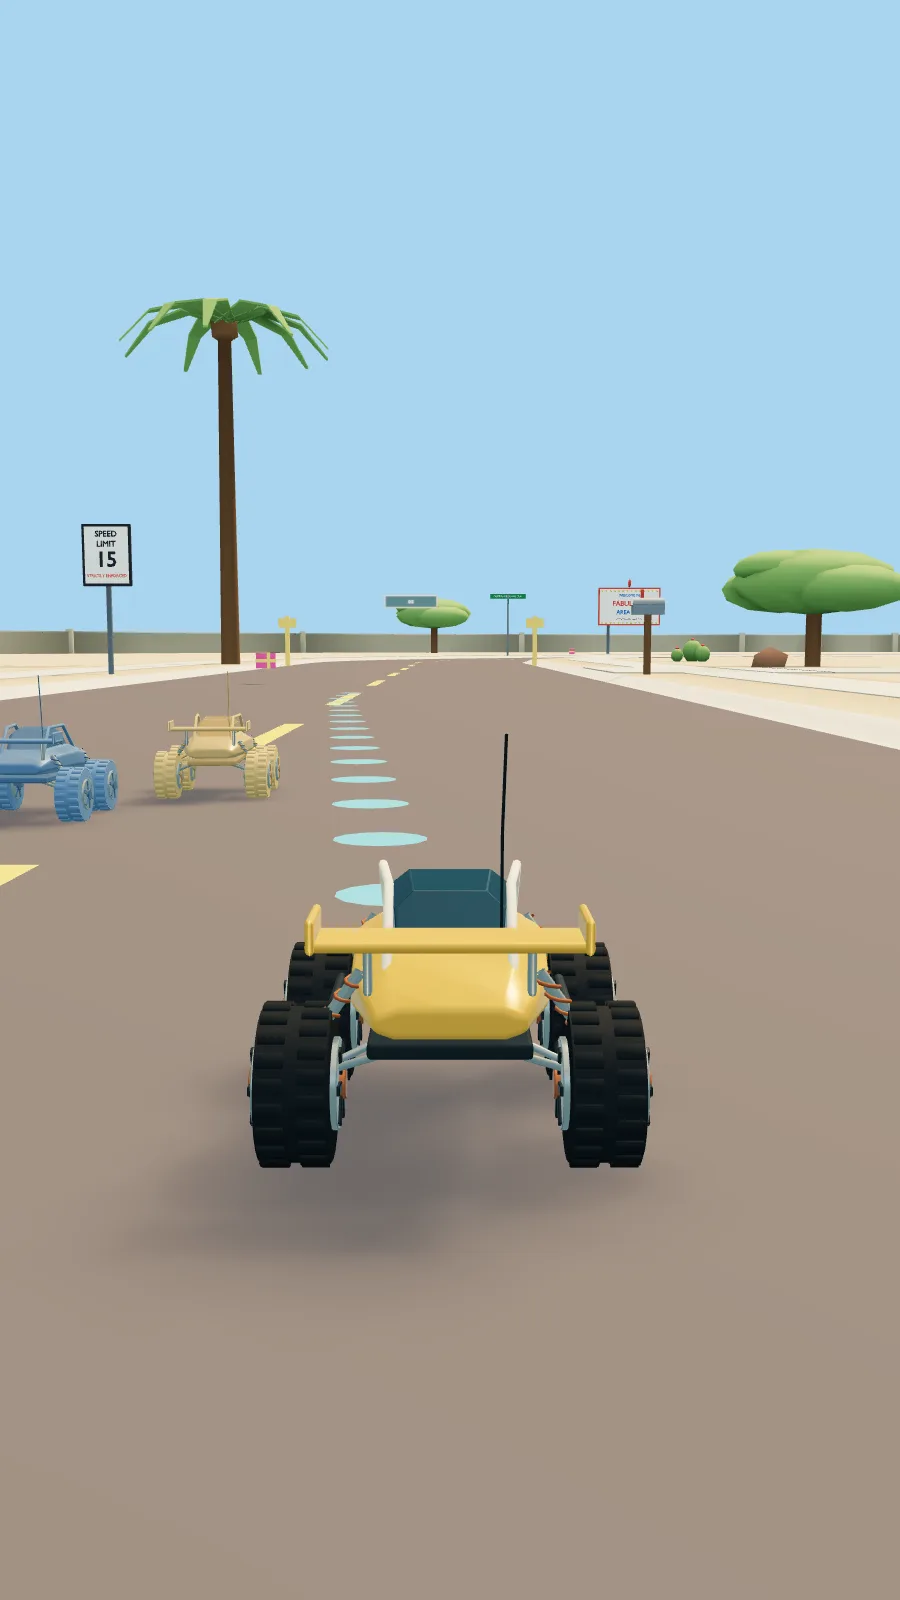
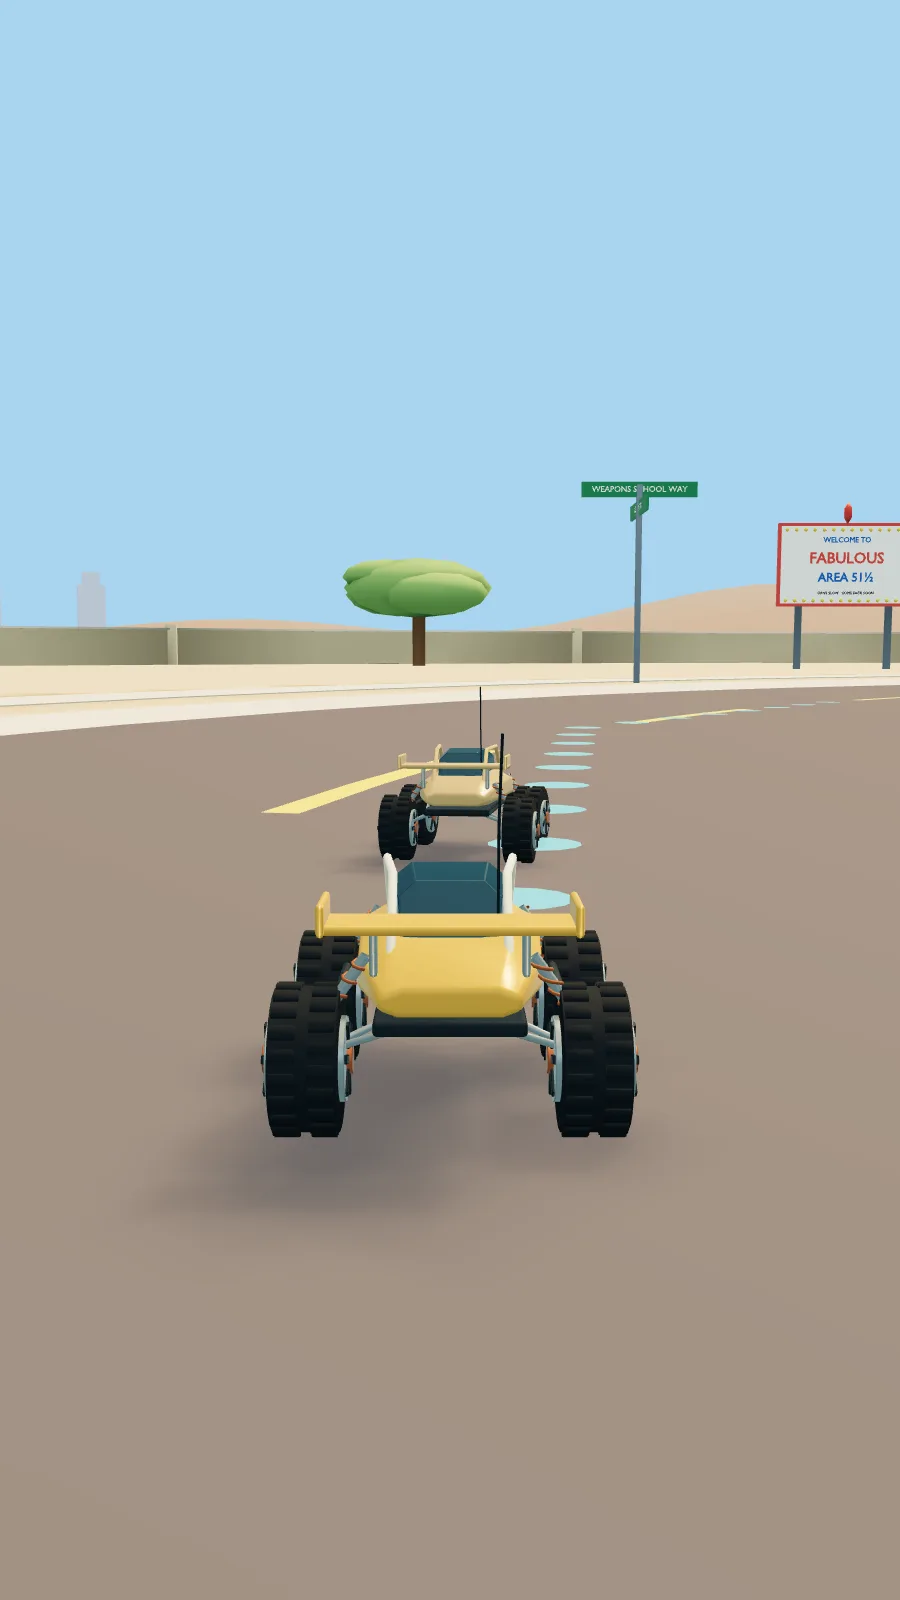
Draw district backdrops to 900 m; v2 card art and Liberty Loop v2 lap evidence
Claude-Session: https://claude.ai/code/session_01VEKscDrWTERtM8AgfV362Z

Changed region(s): [[0.0, 0.1875, 1.0, 0.8125]]

diff --git a/web/wwwroot/rc/main.js b/web/wwwroot/rc/main.js
@@ -77,7 +77,8 @@ sign('RAPIER / MOTOR POOL',0,2.6,7,5);sign('QUARTERS',-6,1.4,-18,3);sign('FLIGHT
 }else{
  // District visuals: VIS_* meshes render; collision and markers stay invisible.
  const root=district.gltf.scene;root.traverse(o=>{if(/^(COL_|GATE_|START_|AI_|PICKUP_|SPEC_|CAM_)/.test(o.name))o.visible=false;else if(o.isMesh){o.castShadow=true;o.receiveShadow=true;}});scene.add(root);
- scene.background=new T.Color('#a9d4ee');scene.fog=new T.Fog('#a9d4ee',80,260);
+ // District backdrops (ridge, skyline) sit 470–660 m out: draw to 900 m with a light desert haze.
+ scene.background=new T.Color('#a9d4ee');scene.fog=new T.Fog('#c9dde6',180,950);camera.far=900;camera.updateProjectionMatrix();
 }
 let car=new T.Group();scene.add(car);const shell=box(0,.15,0,.44,.16,.75,'#e6a53c',car);box(0,.3,.04,.33,.20,.32,'#273d45',car);box(0,.22,.39,.55,.05,.15,'#253436',car);box(0,.43,.29,.016,.45,.016,'#313d3b',car);for(const x of [-.15,.15])box(x,.19,-.39,.10,.06,.025,'#fff4be',car);
 let wheels=[];for(const x of [-.29,.29])for(const z of [-.25,.25]){const pivot=new T.Group();pivot.position.set(x,-.08,z);car.add(pivot);const wheel=new T.Mesh(new T.CylinderGeometry(.15,.15,.13,16),material('#202a2a'));wheel.rotation.z=Math.PI/2;wheel.castShadow=true;pivot.add(wheel);const hub=sphere(0,0,0,.08,'#b1b6a8',pivot,.9,1,1);wheels.push({pivot,wheel,front:z<0});}
